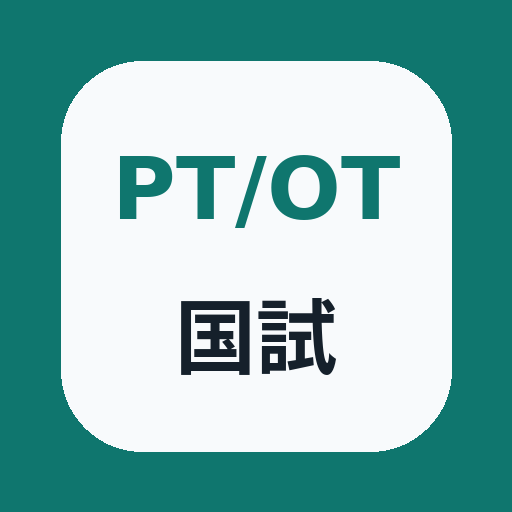
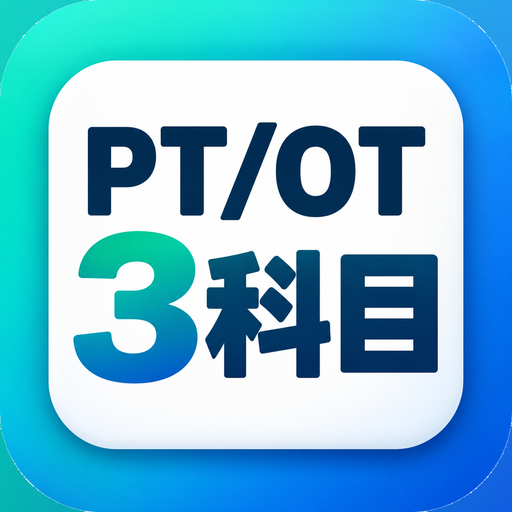
Add files via upload

diff --git a/sw.js b/sw.js
@@ -1,4 +1,4 @@
-const CACHE='ptot-pwa-v1-27';
+const CACHE='ptot-pwa-v1-27-icon1';
 const SHELL=["./","./index.html","./manifest.webmanifest","./app-icon-192.png","./app-icon-512.png","./images/53B72.jpg","./images/54B54.jpg","./images/54B59.jpg","./images/54B72.jpg","./images/55A59.jpg","./images/56A60.jpg","./images/56B71.jpg","./images/57A60.jpg","./images/57A70.jpg","./images/57B59.jpg","./images/58A71.jpg","./images/58B59.jpg","./images/59A60.jpg","./images/60A51.jpg","./images/60B56.jpg","./images/61A58.png","./images/61A72.png"];
 self.addEventListener('install',event=>{event.waitUntil(caches.open(CACHE).then(c=>c.addAll(SHELL)).then(()=>self.skipWaiting()));});
 self.addEventListener('activate',event=>{event.waitUntil(caches.keys().then(keys=>Promise.all(keys.filter(k=>k!==CACHE).map(k=>caches.delete(k)))).then(()=>self.clients.claim()));});
